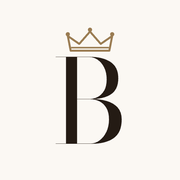
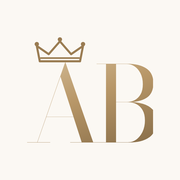
Poprawki krytyka C-01, C-02, C-05, C-06, C-07
- C-01: strona główna, sekcja 03 – karta z makiety „Akcesoria i pielęgnacja”
  (brzmienie z makiety, cel /sklep) i link „Zobacz wszystkie produkty”;
  „Certyfikaty i jakość” zostaje jako 04.
- C-02: filary szkoleń (Technika, Doświadczenie, Wsparcie) widoczne także
  na telefonie (zasada Filipa z 05.10: nie ukrywać treści na telefonach).
- C-05: ikony (favicon, icon, apple-icon) – monogram klientki „AB” z koroną
  nad „A” z jej plakatów kursów w /Graphics, w miejsce samego „B”.
- C-06: regulamin, polityka prywatności, polityka cookies i baner (PL, EN,
  RU) obejmują sklep: „Lista produktów” (pigmenty i produkty ze sklepu)
  zamiast „Listy pigmentów”; data aktualizacji 19.10.2026.
- C-07 (Lite): /en/shop i /ru/shop – nazwy, dopiski i „szt.” w języku
  strony (pole i18n w shop.json, localizeProduct, jak w Dark).

diff --git a/src/content/legal/banner.js b/src/content/legal/banner.js
@@ -3,7 +3,7 @@
 const BANNER = {
   "pl": {
     "title": "Prywatność i cookies",
-    "text": "Zapisujemy w Twojej przeglądarce tylko to, co niezbędne do działania strony, na przykład listę pigmentów, którą tworzysz. Nie używamy narzędzi analitycznych ani reklamowych.",
+    "text": "Zapisujemy w Twojej przeglądarce tylko to, co niezbędne do działania strony, na przykład listę produktów, którą tworzysz. Nie używamy narzędzi analitycznych ani reklamowych.",
     "buttonOk": "Rozumiem",
     "buttonAccept": "Akceptuję wszystkie",
     "buttonReject": "Tylko niezbędne",
@@ -12,7 +12,7 @@ const BANNER = {
     "categories": {
       "necessary": {
         "name": "Niezbędne",
-        "desc": "Zapamiętują Twoją decyzję w tym banerze i listę pigmentów dodanych do zapytania, a przy rezerwacji online, jeśli ta ochrona jest włączona, chronią formularz przed botami. Bez nich te funkcje nie działają prawidłowo."
+        "desc": "Zapamiętują Twoją decyzję w tym banerze i listę produktów dodanych do zapytania, a przy rezerwacji online, jeśli ta ochrona jest włączona, chronią formularz przed botami. Bez nich te funkcje nie działają prawidłowo."
       },
       "analytics": {
         "name": "Analityczne",
@@ -31,7 +31,7 @@ const BANNER = {
   },
   "en": {
     "title": "Privacy and cookies",
-    "text": "We store in your browser only what is necessary for the website to work, such as the pigment list you create. We do not use any analytics or advertising tools.",
+    "text": "We store in your browser only what is necessary for the website to work, such as the product list you create. We do not use any analytics or advertising tools.",
     "buttonOk": "Got it",
     "buttonAccept": "Accept all",
     "buttonReject": "Necessary only",
@@ -40,7 +40,7 @@ const BANNER = {
     "categories": {
       "necessary": {
         "name": "Necessary",
-        "desc": "These remember your choice in this banner and the list of pigments added to your enquiry and, if this protection is enabled, protect the online booking form against bots. Without them these features do not work properly."
+        "desc": "These remember your choice in this banner and the list of products added to your enquiry and, if this protection is enabled, protect the online booking form against bots. Without them these features do not work properly."
       },
       "analytics": {
         "name": "Analytics",
@@ -59,7 +59,7 @@ const BANNER = {
   },
   "ru": {
     "title": "Конфиденциальность и cookie",
-    "text": "Мы сохраняем в вашем браузере только то, что необходимо для работы сайта, например составленный вами список пигментов. Мы не используем аналитические и рекламные инструменты.",
+    "text": "Мы сохраняем в вашем браузере только то, что необходимо для работы сайта, например составленный вами список товаров. Мы не используем аналитические и рекламные инструменты.",
     "buttonOk": "Понятно",
     "buttonAccept": "Принять все",
     "buttonReject": "Только необходимые",
@@ -68,7 +68,7 @@ const BANNER = {
     "categories": {
       "necessary": {
         "name": "Необходимые",
-        "desc": "Запоминают ваше решение в этом баннере и список пигментов, добавленных в запрос, а при онлайн-записи, если эта защита включена, защищают форму от ботов. Без них эти функции не работают должным образом."
+        "desc": "Запоминают ваше решение в этом баннере и список товаров, добавленных в запрос, а при онлайн-записи, если эта защита включена, защищают форму от ботов. Без них эти функции не работают должным образом."
       },
       "analytics": {
         "name": "Аналитические",

diff --git a/src/views/Shop.jsx b/src/views/Shop.jsx
@@ -30,7 +30,7 @@
 import React, { useCallback, useMemo, useRef, useState } from 'react';
 import Link from '@/components/as/LocaleLink';
 import { ArrowLink, ClosingCta, CtaButton, NumberedItem, PageHero, Reveal, SectionLabel } from '@/components/as/Primitives';
-import { formatCapacity, formatSyncedDate, productById, stats as pigmentStats } from '@/lib/pigments';
+import { formatCapacity, formatSyncedDate, localizeProduct, productById, stats as pigmentStats } from '@/lib/pigments';
 import { SHOP_PRICE_DATE, shopCategories, shopProducts } from '@/lib/shop';
 import { productPhoto } from '@/lib/productPhotos';
 import { CONTACT } from '@/lib/site';
@@ -143,8 +143,13 @@ function Categories({ links }) {
 
 function CategoryBlock({ category, label, qtyByProduct, onAdd, onDetails }) {
   const t = useContent(shopDict);
+  const locale = useLocale();
   const [open, setOpen] = useState(false);
-  const rows = PRODUCTS.filter((p) => p.collection === category.id);
+  /* nazwy i dopiski w języku strony (pole `i18n` w src/data/shop.json) */
+  const rows = useMemo(
+    () => PRODUCTS.filter((p) => p.collection === category.id).map((p) => localizeProduct(p, locale)),
+    [category.id, locale]
+  );
   const photoId = CATEGORY_PHOTO[category.id];
   /* miniatury w wierszach, gdy kategoria nie ma wspólnego zdjęcia, a choć jeden produkt ma packshot */
   const thumbs = !photoId && rows.some((p) => productPhoto(p.id));
@@ -325,7 +330,7 @@ export default function Shop() {
   const onAdd = useCallback(
     (id, label) => {
       add(id, label);
-      const p = productById(id);
+      const p = localizeProduct(productById(id), locale);
       const text = t.order.added(`${p?.name ?? ''}${label ? `, ${formatCapacity(label, locale)}` : ''}`);
       setAnnounce((prev) => (prev === text ? `${text} ` : text));
     },

diff --git a/src/components/shop/ShopRow.jsx b/src/components/shop/ShopRow.jsx
@@ -18,7 +18,7 @@ import PresaleBadge from '@/components/magicui/PresaleBadge';
 import { cn } from '@/lib/utils';
 import { formatCapacity } from '@/lib/pigments';
 import { productPhoto } from '@/lib/productPhotos';
-import { useContent } from '@/i18n/client';
+import { useContent, useLocale } from '@/i18n/client';
 import { shopDict } from '@/content/views/shop';
 import { ADD_BTN, PriceLine, ProductPhoto, displayName } from '@/components/pigments/parts';
 
@@ -27,6 +27,7 @@ const THUMB_SIZES = '(min-width: 640px) 72px, 56px';
 
 function ShopRowBase({ product, qty, onAdd, onDetails, thumbs = false }) {
   const t = useContent(shopDict);
+  const locale = useLocale();
   const variant = product.variants[0];
   const canAdd = Boolean(!product.onRequest && product.inStock && variant?.inStock);
   const hasPhoto = Boolean(productPhoto(product.id));
@@ -65,7 +66,7 @@ function ShopRowBase({ product, qty, onAdd, onDetails, thumbs = false }) {
         <div className="flex flex-wrap items-center gap-x-4 gap-y-3 md:shrink-0 md:flex-nowrap md:justify-end">
           {product.onRequest ? (
             <p className="whitespace-nowrap text-[0.9375rem] text-mocha">
-              {variant?.label && <span className="mr-1.5 text-[0.8125rem]">{formatCapacity(variant.label)}</span>}
+              {variant?.label && <span className="mr-1.5 text-[0.8125rem]">{formatCapacity(variant.label, locale)}</span>}
               {t.cell.priceOnRequest}
             </p>
           ) : (

diff --git a/src/views/Home.jsx b/src/views/Home.jsx
@@ -456,6 +456,10 @@ function ProductsBand() {
               jakość, innowacyjne technologie i realne doświadczenie, aby wspierać Cię na każdym
               etapie pracy.
             </p>
+            {/* C-01: link z makiety („Zobacz wszystkie produkty →”) – od 14.10 cały sklep na /sklep */}
+            <ArrowLink href="/sklep" className="mt-8 w-fit">
+              Zobacz wszystkie produkty
+            </ArrowLink>
           </Reveal>
 
           <div className="md:col-span-7 md:col-start-6">
@@ -663,8 +667,9 @@ function TrainingBand() {
           </div>
         </div>
 
-        {/* H3: filary powtarzają akapit – na telefonie ukryte, od md trzy kolumny */}
-        <div className="mt-14 hidden gap-8 md:grid md:grid-cols-3 lg:mt-16">
+        {/* Filary z makiety – także na telefonie (C-02, 19.10.2026: zasada Filipa z 05.10 „nie ukrywaj
+            treści na telefonach”; wcześniej H3 je ukrywało), od md trzy kolumny */}
+        <div className="mt-14 grid gap-8 md:grid-cols-3 lg:mt-16">
           {TRAINING_PILLARS.map((p, i) => (
             <Reveal key={p.number} delay={i * 80}>
               <div className="flex items-baseline gap-3">

diff --git a/src/lib/pigments.js b/src/lib/pigments.js
@@ -235,9 +235,20 @@ export function formatPrice(grosze) {
   return `${sign}${zl}${gr ? `,${String(gr).padStart(2, '0')}` : ''}${NBSP}zł`;
 }
 
-/** „6 ml” z twardą spacją (etykiety w danych mają zwykłą). */
-export function formatCapacity(label) {
-  return label ? String(label).replace(/\s+/g, NBSP) : '';
+/* Sztuki w opakowaniu (kartridże sklepu, „20 szt.”) na trasach /en i /ru: en „pcs”, ru „шт.”. */
+const PCS = { en: 'pcs', ru: 'шт.' };
+
+/** „6 ml” z twardą spacją (etykiety w danych mają zwykłą); „20 szt.” → en „20 pcs”, ru „20 шт.”. */
+export function formatCapacity(label, lang = 'pl') {
+  if (!label) return '';
+  const s = String(label).replace(/\s+/g, NBSP);
+  return PCS[lang] ? s.replace(/szt\.$/, PCS[lang]) : s;
+}
+
+/** Produkt sklepu w języku strony – pole `i18n` w src/data/shop.json (nazwy, dopiski); inaczej bez zmian. */
+export function localizeProduct(product, lang = 'pl') {
+  const o = product?.i18n?.[lang];
+  return o ? { ...product, ...withEnDash(o) } : product;
 }
 
 /**

diff --git a/src/components/as/Logo.jsx b/src/components/as/Logo.jsx
@@ -7,9 +7,10 @@
  * na WhatsAppie. Do czasu dostarczenia plików znak składamy z fontów serwisu (Bodoni Moda
  * + Jost) i korony w SVG, więc jest ostry w każdym rozmiarze i nie potrzebuje pobierania.
  * Po dostarczeniu plików wystarczy podmienić zawartość tego komponentu – nagłówek i menu
- * korzystają tylko z niego. Ikony (src/app/icon.png, apple-icon.png) i public/brand/
- * babushkina-academy-logo.png (logo w JSON-LD, src/lib/seo.jsx) to rendery tego znaku –
- * po zmianie znaku trzeba je odświeżyć.
+ * korzystają tylko z niego. public/brand/babushkina-academy-logo.png (logo w JSON-LD,
+ * src/lib/seo.jsx) to render tego znaku – po zmianie znaku trzeba go odświeżyć. Ikony
+ * (src/app/icon.png, apple-icon.png, favicon.ico) od 19.10.2026 to monogram klientki „AB”
+ * z koroną nad „A” z jej plakatów kursów w /Graphics (Bodoni Moda, złoto, krem).
  *
  * Znak jest dekoracją (aria-hidden): nazwę dostępną daje link, w którym stoi
  * (aria-label „Babushkina Academy – strona główna”).

diff --git a/src/content/site/ru.js b/src/content/site/ru.js
@@ -197,6 +197,11 @@ const site = {
       cta: 'Смотреть машинку',
     },
     {
+      title: 'Аксессуары и уход',
+      desc: 'Всё, что нужно для ежедневной работы, – картриджи, препараты и аксессуары высочайшего качества.',
+      cta: 'Смотреть аксессуары',
+    },
+    {
       title: 'Сертификаты и качество',
       desc: 'Соответствие EU REACH, карты продуктов и документация, которая нужна профессиональному кабинету.',
       cta: 'Смотреть сертификаты',

diff --git a/src/lib/site.js b/src/lib/site.js
@@ -553,8 +553,17 @@ export const PRODUCT_LINES = [
     cta: 'Zobacz maszynkę',
   },
   {
-    id: 'certyfikaty',
+    id: 'akcesoria',
     number: '03',
+    title: 'Akcesoria i pielęgnacja',
+    href: '/sklep',
+    /* C-01 (19.10.2026): karta z makiety (26.09) – brzmienie z makiety; cel od 14.10 – /sklep */
+    desc: 'Wszystko, czego potrzebujesz do codziennej pracy – kartridże, preparaty i akcesoria najwyższej jakości.',
+    cta: 'Zobacz akcesoria',
+  },
+  {
+    id: 'certyfikaty',
+    number: '04',
     title: 'Certyfikaty i jakość',
     href: '/certyfikaty',
     /* D9: deklaracja REACH w brzmieniu sklepu klientki („pigmenty zgodne z rozporządzeniem REACH”),

diff --git a/src/app/ru/terms/page.jsx b/src/app/ru/terms/page.jsx
@@ -11,7 +11,7 @@ export const metadata = pageMeta({
   locale: 'ru',
   route: 'terms',
   title: doc.title,
-  description: 'Правила пользования сайтом Babushkina Academy: формы, список пигментов, онлайн-запись, рекламации.',
+  description: 'Правила пользования сайтом Babushkina Academy: формы, список товаров, онлайн-запись, рекламации.',
   noindex: !LEGAL_PUBLIC,
 });
 

diff --git a/src/content/site/en.js b/src/content/site/en.js
@@ -196,6 +196,11 @@ const site = {
       cta: 'See the machine',
     },
     {
+      title: 'Accessories and care',
+      desc: 'Everything you need for your everyday work – cartridges, treatment products and accessories of the highest quality.',
+      cta: 'See accessories',
+    },
+    {
       title: 'Certificates & quality',
       desc: 'EU REACH compliance, product sheets and the documentation a professional studio requires.',
       cta: 'See certificates',

diff --git a/src/app/(pl)/regulamin/page.jsx b/src/app/(pl)/regulamin/page.jsx
@@ -11,7 +11,7 @@ export const metadata = pageMeta({
   locale: 'pl',
   route: 'terms',
   title: doc.title,
-  description: 'Regulamin serwisu Babushkina Academy: formularze, lista pigmentów, rezerwacja wizyty online, reklamacje.',
+  description: 'Regulamin serwisu Babushkina Academy: formularze, lista produktów, rezerwacja wizyty online, reklamacje.',
   noindex: !LEGAL_PUBLIC,
 });
 

diff --git a/src/app/en/terms/page.jsx b/src/app/en/terms/page.jsx
@@ -11,7 +11,7 @@ export const metadata = pageMeta({
   locale: 'en',
   route: 'terms',
   title: doc.title,
-  description: 'Terms of Use of the Babushkina Academy website: forms, pigment list, online booking, complaints.',
+  description: 'Terms of Use of the Babushkina Academy website: forms, product list, online booking, complaints.',
   noindex: !LEGAL_PUBLIC,
 });
 
